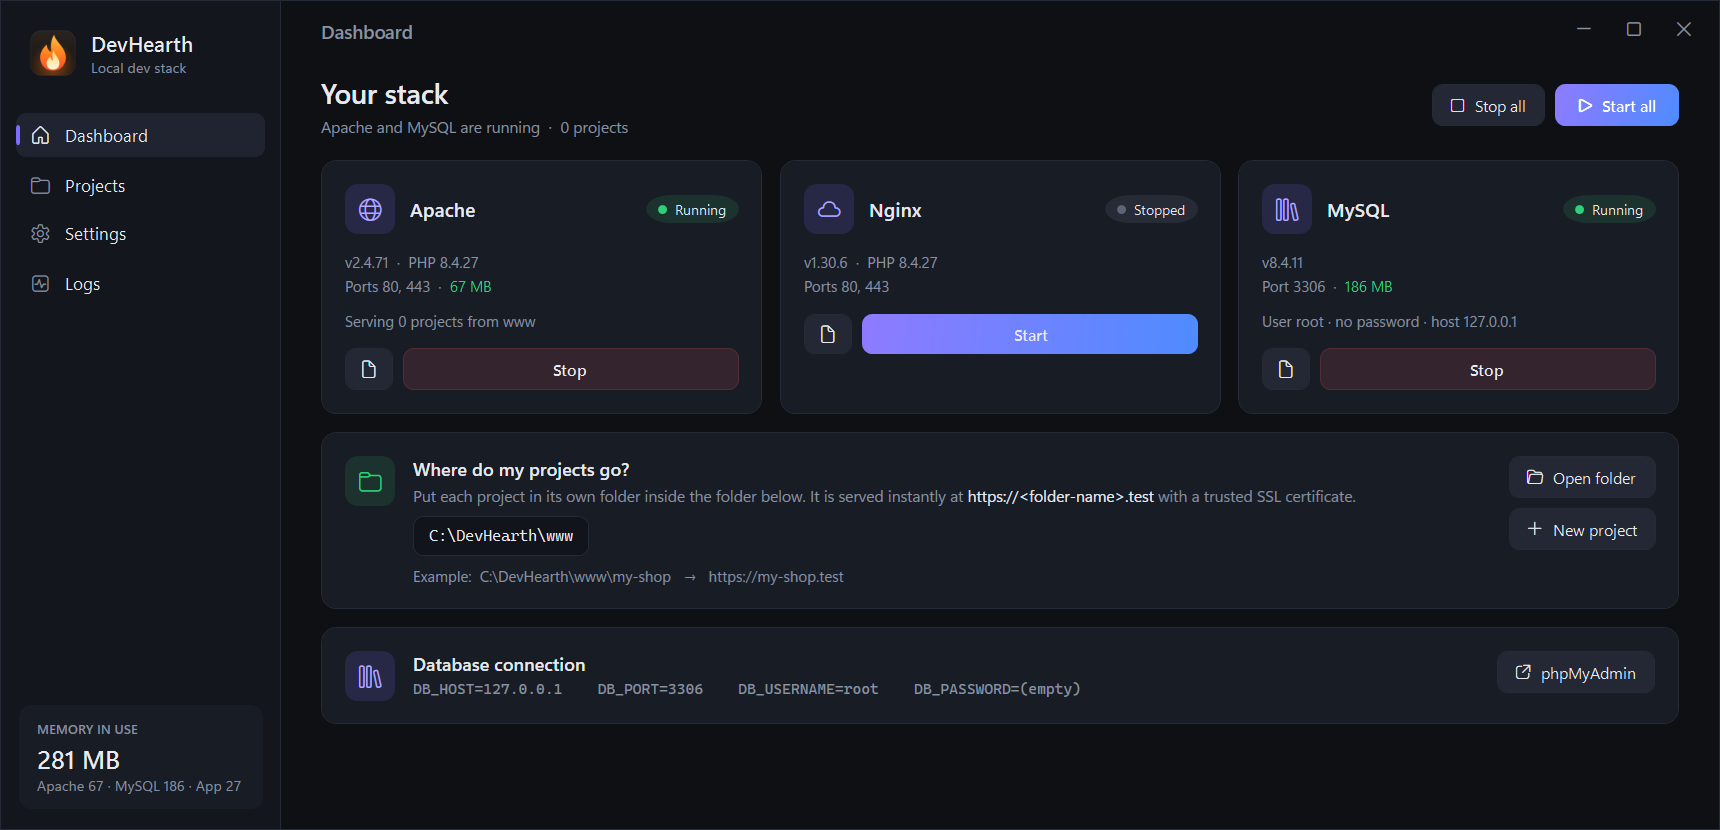
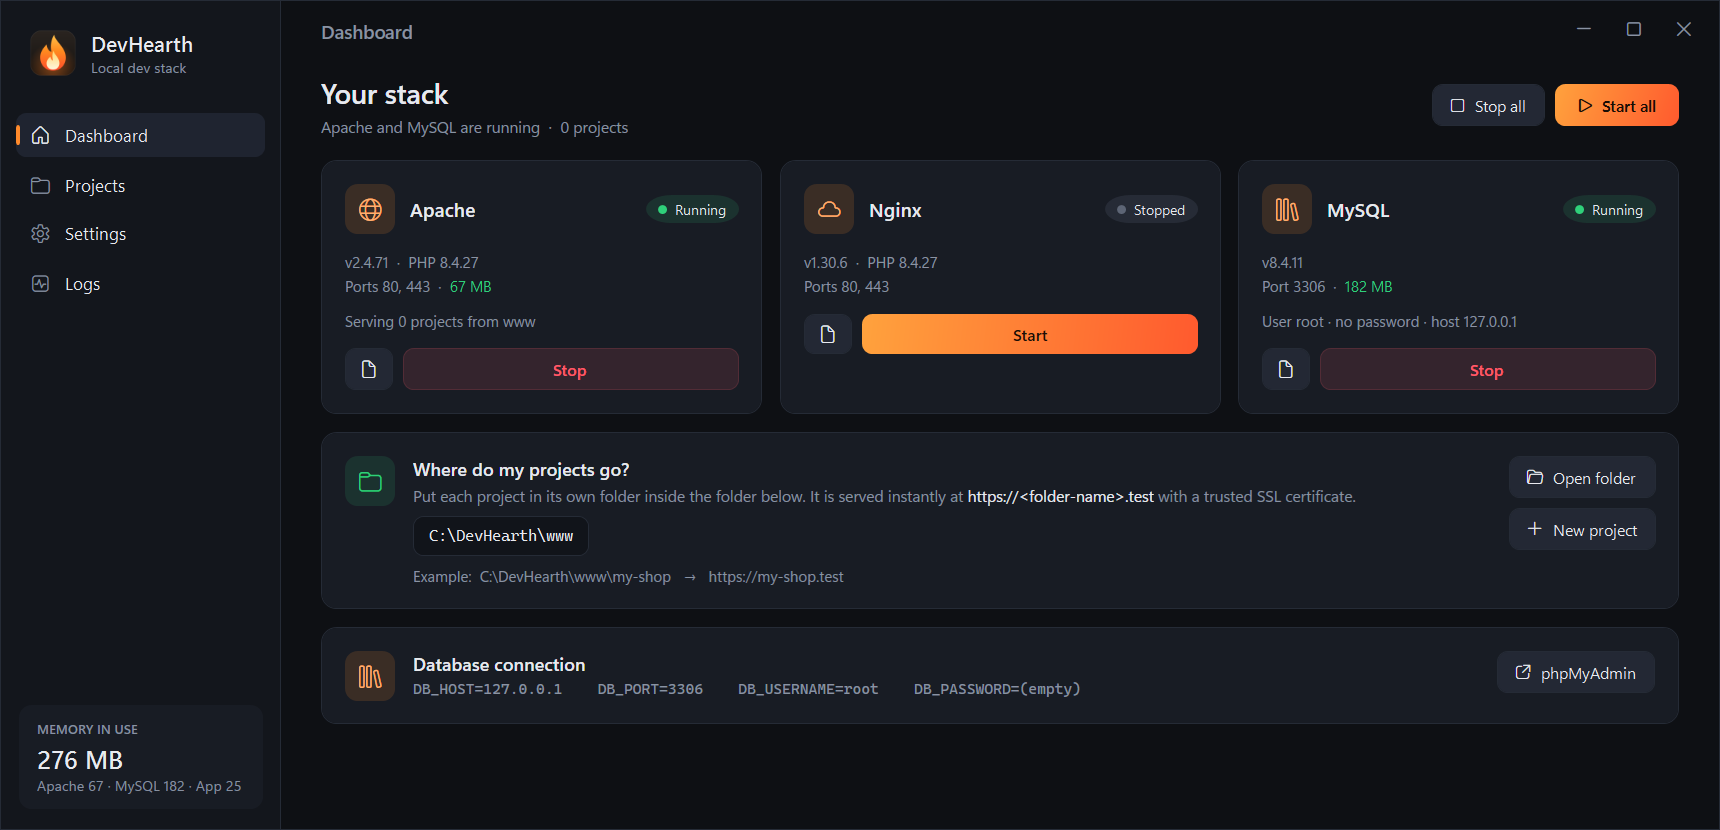
DevHearth 1.1.1: orange theme screenshot, changelog

diff --git a/index.html b/index.html
@@ -161,7 +161,7 @@
 
 <header class="hero">
   <div class="wrap">
-    <span class="pill"><b>New</b> Version 1.1.0 is out, free for everyone</span>
+    <span class="pill"><b>New</b> Version 1.1.1: fresh look, free for everyone</span>
     <h1>Your local dev <span class="glow">home.</span></h1>
     <p class="lead">Apache or Nginx, PHP and MySQL on Windows in one small app. Drop a folder in <code>www</code> and it's live at <code>https://folder.test</code> with a trusted certificate.</p>
     <div class="cta">

diff --git a/CHANGELOG.md b/CHANGELOG.md
@@ -2,6 +2,14 @@
 
 All notable changes to DevHearth are listed here. Versions follow [Semantic Versioning](https://semver.org).
 
+## [1.1.1]
+
+- New flame app icon and in-app logo
+- Warm orange colour theme to match the new brand
+- Buttons now show their intended text colours (e.g. red Stop buttons)
+- Fixed port numbers being cut off in Settings
+- Tray icon renders correctly at small sizes
+
 ## [1.1.0] - first public release
 
 - Apache **or** Nginx + PHP + MySQL 8.4 LTS, started and stopped with one click
